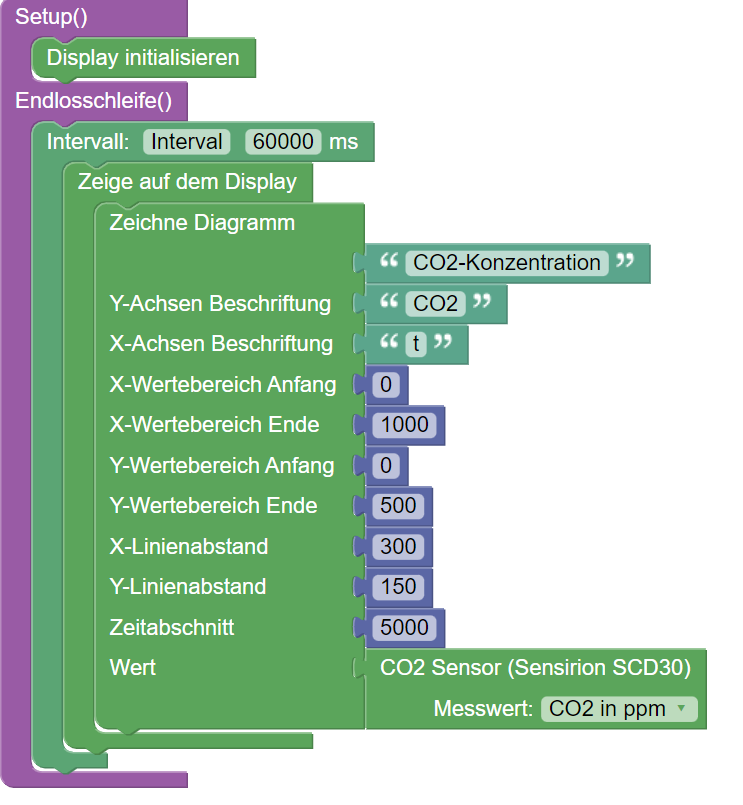
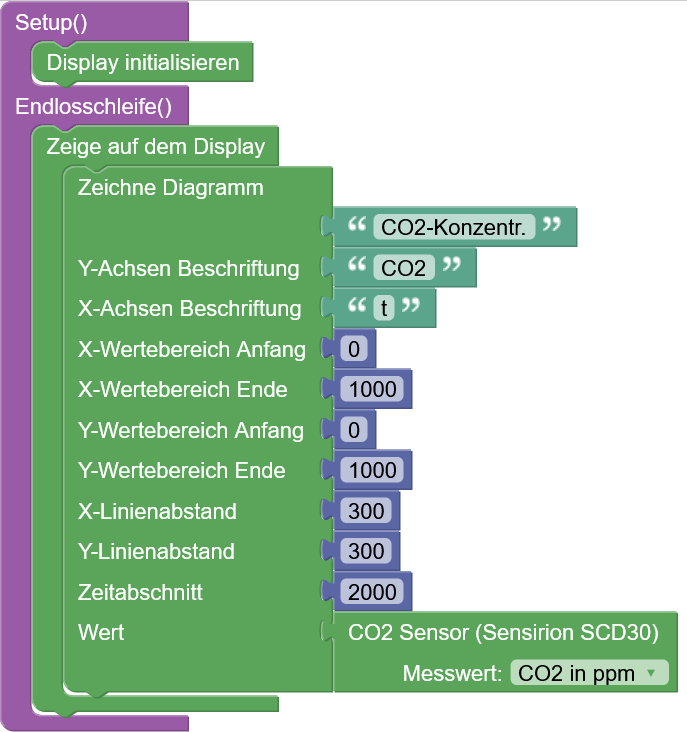
fix: code for project Fotosysnthese
Some minor changes to the project code description to make it easier to understand and use:

- deleted the "Intervall" since it does not affect the intervall of the measurements according to my experiments and can be confusing for young users.
- shortened the title because it needed a second line on the tiny display
- increased the "Y-Wertebereich Ende" since the first measurements of CO2 are often above 500ppm and therefore not shown on the display, which can give the impression that it's not working
- increased the "Y-Linienabstand" accordingly
- decreased the "Zeitabschnitt" so that the display doesnt delete and show new values for 1000s instead of 4000s (over an hour)

Changed region(s): [[0.0, 0.0, 1.0, 1.0]]

diff --git a/_projects/de/2020-11-13-Fotosynthese.md b/_projects/de/2020-11-13-Fotosynthese.md
@@ -43,7 +43,7 @@ Das Ziel der Programmierung ist es, den Verlauf des CO2-Gehalts innerhalb des Ge
 
 ### Schritt 1: Display initialisieren und Messintervall festlegen
 
-Da du das Display als Anzeige verwendest, sollte dies zuerst im Setup() initialisisert werden. Zudem kannst du anschließend in der Endlosschleiße festlegen, in welchem Messintervall die CO2-Konzentration bestimmt und angezeigt werden soll. In diesem Beispiel wurden 60000 ms (1 Minute) gewählt, da dieses Intervall genügt, um einen Eindruck über die Entwicklung der CO2-Konzentration zu erhalten.
+Da du das Display als Anzeige verwendest, sollte dies zuerst im Setup() initialisisert werden.
 
 {% include image.html image=page.image1 %}
 
